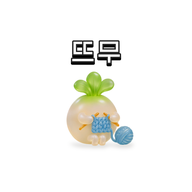
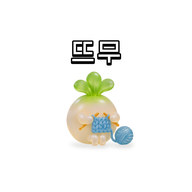
뜨무 외곽선 블랙, 그림자 거리 축소

Changed region(s): [[0.3438, 0.1875, 0.6562, 0.3438]]

diff --git a/index.html b/index.html
@@ -353,7 +353,7 @@ button.chip:hover { color: var(--ink) }
 </style>
 
 <div id="splash" aria-hidden="true">
[2 lines of base64/hex data omitted]
   <div class="splash-name">뜨무로그</div>
 </div>
 <header class="top">

diff --git a/sw.js b/sw.js
@@ -1,4 +1,4 @@
-const CACHE = 'hankoh-c42ae88872';
+const CACHE = 'hankoh-99ede05ffe';
 const SHELL = ['./', './index.html', './manifest.webmanifest', './icon-180.png', './icon-192.png', './icon-512.png'];
 self.addEventListener('install', e => {
   e.waitUntil(caches.open(CACHE).then(c => c.addAll(SHELL)).then(() => self.skipWaiting()));
